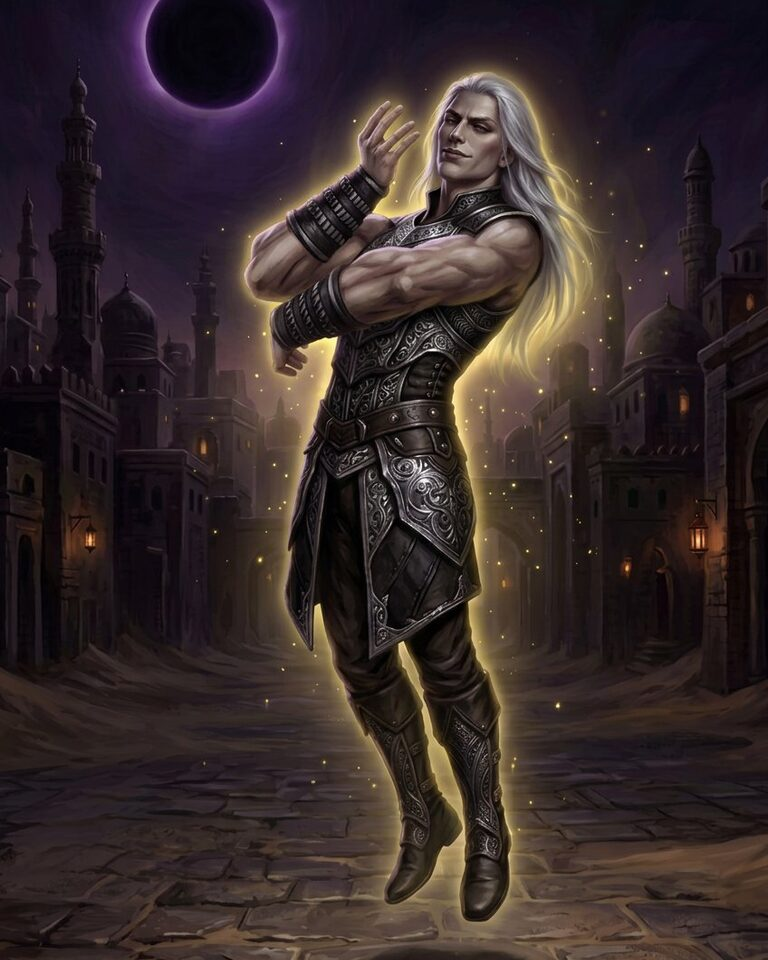
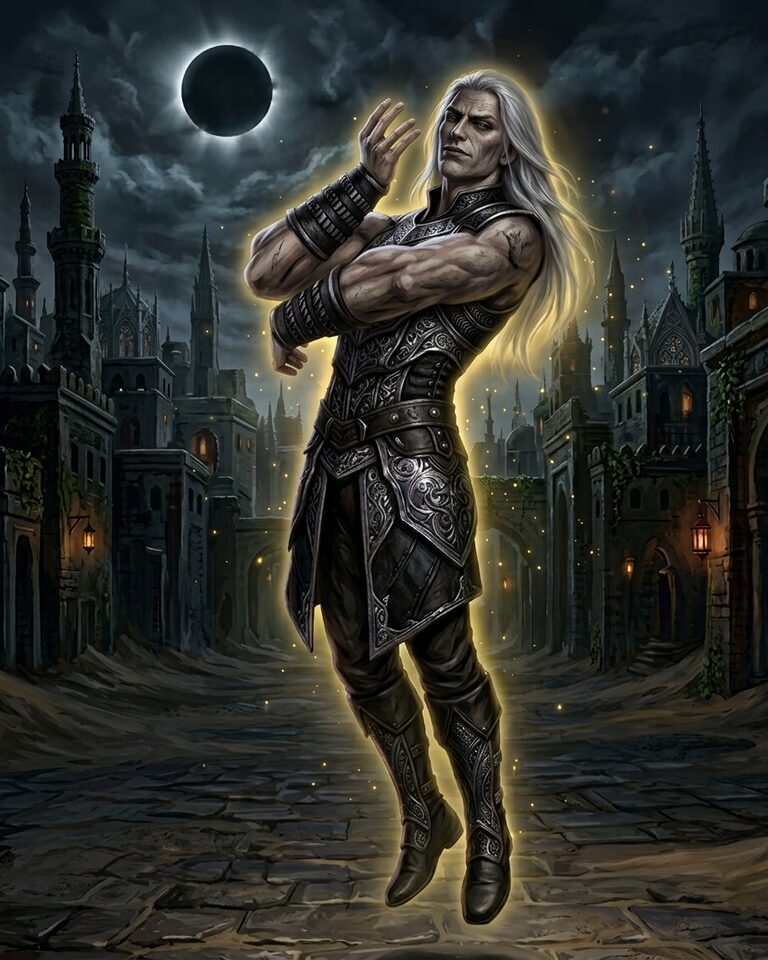
Recrée le Souverain dans un style Souls

diff --git a/src/games/rpgCardArt.js b/src/games/rpgCardArt.js
@@ -61,7 +61,7 @@ const SANS_TEINTE = 'sans-teinte-v1';
 
 const CARD_ART_CACHE_VERSIONS = {
   'danseuse-des-ombres-de-dune': 'lune-danseuse-v7',
-  'souverain-de-la-lune-noire': 'lune-heros-v2',
+  'souverain-de-la-lune-noire': 'lune-heros-v3',
   'voile-de-la-lune-noire': 'lune-magie-v4',
   'ressac-de-la-lune-noire': 'lune-magie-v4',
   'sabre-du-croissant-noir': 'lune-armurerie-v4',
